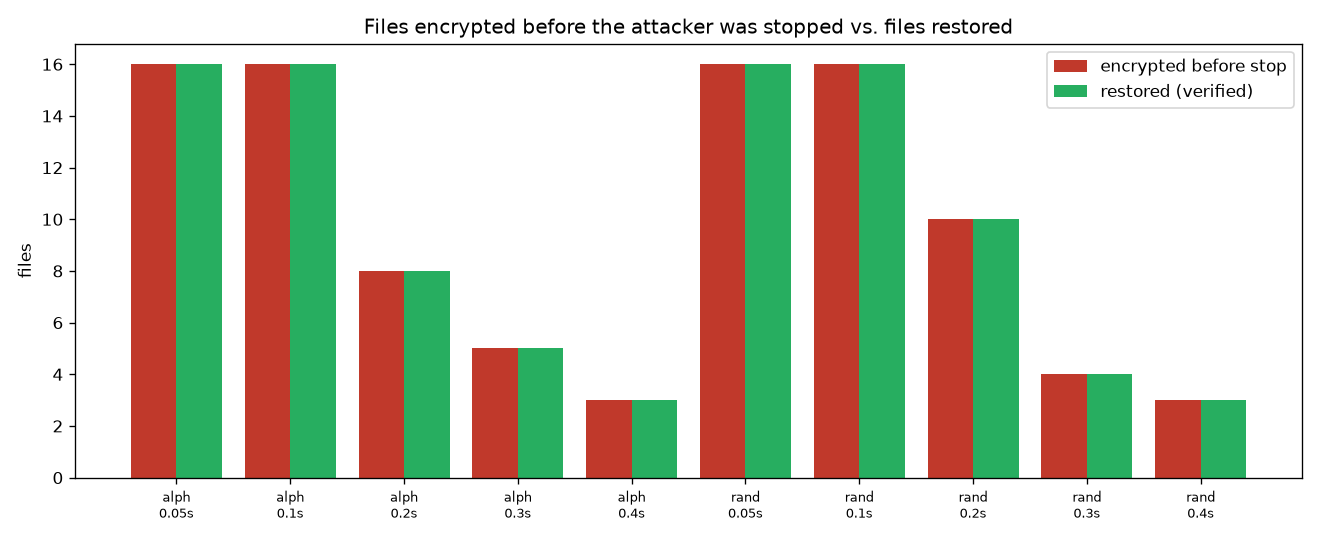
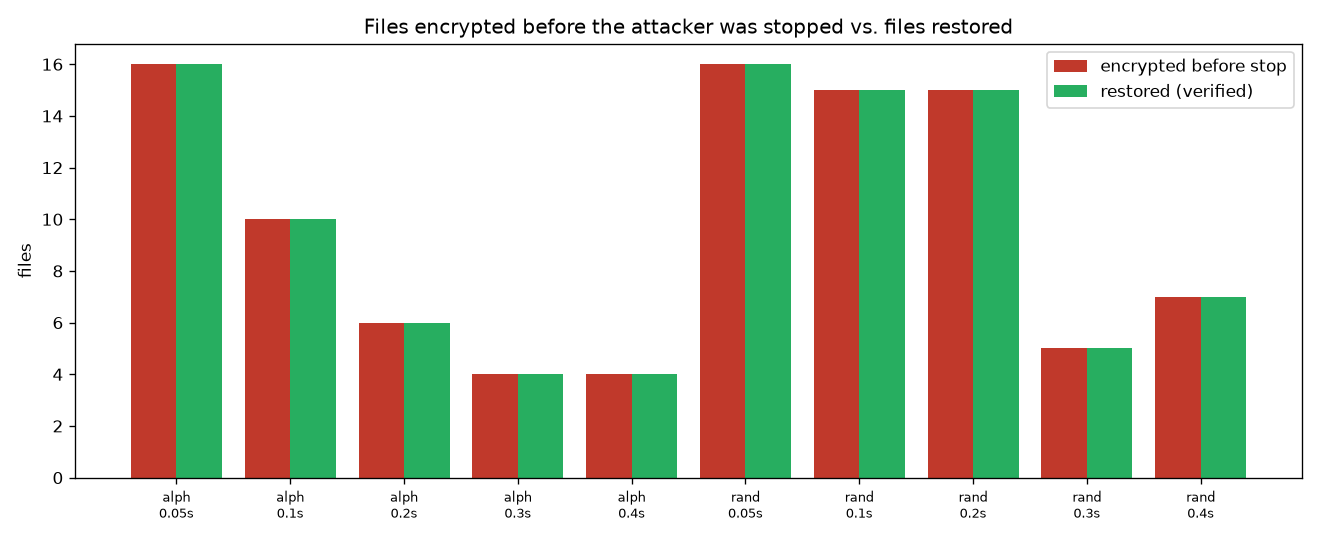
Part B finishing steps: isolate safety test, rename kill status, refresh results
- test_simulator_never_encrypts_recovery_keys now runs in a tmp sandbox and drives the
  simulator in-process (monkeypatched config paths), so it cannot collide with a concurrent
  evaluation run on the real ./sandbox
- attack_matrix: correct_kill value 'wrong_pid' -> 'wrong_pid_suspended'
- re-ran attack_matrix then run_experiment then report ALONE; refreshed results.md + charts
  (base64 & intermittent with canaries off are new catches; 10/10 cells folder-clean)
- README: added the honest caveat that on a MIXED corpus the old detector also catches
  these modes via the broken magic bytes (container header); the gap is measured on a
  text-only corpus, the hard case with no magic to break
- 86 tests pass

diff --git a/tests/test_advanced_attacks.py b/tests/test_advanced_attacks.py
@@ -16,18 +16,12 @@ from __future__ import annotations
 
 import base64
 import os
-import subprocess
-import sys
-from pathlib import Path
 
 import pytest
 
 from ransomguard import config, entropy
 from ransomguard.baseline import BaselineEntry
 from ransomguard.scorer import evaluate_signals
-
-PY = sys.executable
-ROOT = Path(__file__).resolve().parent.parent
 
 
 # ------------------------------------------------- encoded / base64 detection
@@ -87,29 +81,38 @@ def test_entropy_jump_fires_with_multi_offset_not_without(tmp_path, monkeypatch)
 
 # ------------------------------------------------- safety: keys never encrypted
 @pytest.mark.parametrize("mode", ["full", "slow", "no-rename", "base64", "intermittent"])
-def test_simulator_never_encrypts_recovery_keys(mode):
+def test_simulator_never_encrypts_recovery_keys(mode, tmp_path, monkeypatch):
     """No attack mode may touch backup_key.bin or the manifest - recovery must stay possible.
 
-    Runs against the real sandbox (safe: sandbox-only), building a backup first so the key
-    and manifest exist, then attacking and checking both are byte-identical afterwards.
+    Runs entirely in a throwaway tmp sandbox (config paths monkeypatched) and drives the
+    simulator IN-PROCESS, so it cannot collide with a concurrent evaluation run using the
+    real ./sandbox.
     """
-    subprocess.run([PY, "tools/make_test_files.py", "--clean"], cwd=ROOT,
-                   stdout=subprocess.DEVNULL, stderr=subprocess.DEVNULL, check=True)
-    # Create the protected key + manifest by building a backup.
-    subprocess.run(
-        [PY, "-c", "import sys; sys.path.insert(0,'.'); from ransomguard import backup; backup.build_backup()"],
-        cwd=ROOT, stdout=subprocess.DEVNULL, stderr=subprocess.DEVNULL, check=True,
-    )
+    from ransomguard import backup as backup_mod
+    from simulator import fake_ransomware
+
+    sb = tmp_path / "sandbox"
+    protected = sb / "protected"
+    protected.mkdir(parents=True)
+    monkeypatch.setattr(config, "SANDBOX", sb)
+    monkeypatch.setattr(config, "PROTECTED_DIR", protected)
+    monkeypatch.setattr(config, "BACKUP_DIR", sb / ".backup")
+    monkeypatch.setattr(config, "MANIFEST_FILE", sb / ".backup" / "manifest.json")
+    monkeypatch.setattr(config, "BACKUP_KEY_FILE", sb / "backup_key.bin")
+    monkeypatch.setattr(config, "SIM_KEY_FILE", sb / "sim_key.bin")
+    monkeypatch.setattr(config, "SIM_PID_FILE", sb / "sim_pid.txt")
+
+    # A small corpus (a text file and a structured file), then a backup so the key +
+    # manifest exist to be protected.
+    (protected / "notes.txt").write_text("hello world " * 400, encoding="utf-8")
+    (protected / "report.pdf").write_bytes(b"%PDF-1.4\n" + b"body " * 300)
+    backup_mod.build_backup(protected)
     key_before = config.BACKUP_KEY_FILE.read_bytes()
     manifest_before = config.MANIFEST_FILE.read_bytes()
 
-    subprocess.run(
-        [PY, "-m", "simulator.fake_ransomware", "--mode", mode, "--delay", "0", "--order", "asis"],
-        cwd=ROOT, stdout=subprocess.DEVNULL, stderr=subprocess.DEVNULL,
+    rc = fake_ransomware.main(
+        ["--path", str(protected), "--mode", mode, "--delay", "0", "--order", "asis"]
     )
-
+    assert rc == 0
     assert config.BACKUP_KEY_FILE.read_bytes() == key_before, f"{mode} touched the backup key!"
     assert config.MANIFEST_FILE.read_bytes() == manifest_before, f"{mode} touched the manifest!"
-    # tidy up
-    subprocess.run([PY, "-m", "simulator.undo"], cwd=ROOT,
-                   stdout=subprocess.DEVNULL, stderr=subprocess.DEVNULL)

diff --git a/evaluation/attack_matrix.py b/evaluation/attack_matrix.py
@@ -190,7 +190,7 @@ def _operational(mode: str, canaries_on: bool) -> dict:
     recoveries = [e for e in events if e["event"] == "recovery"]
     correct = "no_kill"
     if killed_pid is not None:
-        correct = "yes" if (sim_pid is not None and int(killed_pid) == sim_pid) else "wrong_pid"
+        correct = "yes" if (sim_pid is not None and int(killed_pid) == sim_pid) else "wrong_pid_suspended"
 
     dt = round(float(suspend_at) - sim_start, 3) if suspend_at is not None else None
     return {

diff --git a/evaluation/results/results.md b/evaluation/results/results.md
@@ -2,23 +2,23 @@
 
 | # | order | delay | files | detection (s) | attributed | killed | encrypted | final recovered | folder clean |
 |---|-------|-------|-------|---------------|------------|--------|-----------|-----------------|--------------|
-| 1 | alphabetical | 0.05s | 16 | - | yes | no | 16 | 16/16 | yes |
-| 2 | alphabetical | 0.1s | 16 | - | yes | no | 16 | 16/16 | yes |
-| 3 | alphabetical | 0.2s | 16 | 1.861 | yes | yes | 8 | 16/16 | yes |
-| 4 | alphabetical | 0.3s | 16 | 1.466 | yes | yes | 5 | 16/16 | yes |
-| 5 | alphabetical | 0.4s | 16 | 1.32 | yes | yes | 3 | 16/16 | yes |
-| 6 | random | 0.05s | 16 | 3.23 | yes | yes | 16 | 16/16 | yes |
-| 7 | random | 0.1s | 16 | - | no | no | 16 | 16/16 | yes |
-| 8 | random | 0.2s | 16 | 2.094 | yes | yes | 10 | 16/16 | yes |
-| 9 | random | 0.3s | 16 | 1.207 | yes | yes | 4 | 16/16 | yes |
-| 10 | random | 0.4s | 16 | 1.181 | yes | yes | 3 | 16/16 | yes |
+| 1 | alphabetical | 0.05s | 16 | - | no | no | 16 | 16/16 | yes |
+| 2 | alphabetical | 0.1s | 16 | 1.283 | yes | yes | 10 | 16/16 | yes |
+| 3 | alphabetical | 0.2s | 16 | 1.441 | yes | yes | 6 | 16/16 | yes |
+| 4 | alphabetical | 0.3s | 16 | 1.308 | yes | yes | 4 | 16/16 | yes |
+| 5 | alphabetical | 0.4s | 16 | 1.473 | yes | yes | 4 | 16/16 | yes |
+| 6 | random | 0.05s | 16 | - | no | no | 16 | 16/16 | yes |
+| 7 | random | 0.1s | 16 | 1.994 | yes | yes | 15 | 16/16 | yes |
+| 8 | random | 0.2s | 16 | 3.956 | yes | yes | 15 | 16/16 | yes |
+| 9 | random | 0.3s | 16 | 1.954 | yes | yes | 5 | 16/16 | yes |
+| 10 | random | 0.4s | 16 | 3.032 | yes | yes | 7 | 16/16 | yes |
 
 **Attack summary**
 
 - trials: 10
-- attributed + killed: 9/10
-- detection time: mean 1.77s, min 1.18s, max 3.23s
-- files encrypted before stop: mean 9.7, min 3, max 16
+- attributed + killed: 8/10
+- detection time: mean 2.06s, min 1.28s, max 3.96s
+- files encrypted before stop: mean 9.8, min 4, max 16
 - recovery rate (recovery self-report): mean 100.0%
 - **folder fully clean at end (ground truth): 10/10 trials**
 - leftover .locked artifacts across all trials: 0
@@ -38,16 +38,16 @@
 
 | mode | canaries | detected (new)? | would OLD detector catch? | detection (s) | encrypted | recovered | folder clean | clean pre-sweep | correct kill |
 |------|----------|-----------------|---------------------------|---------------|-----------|-----------|--------------|-----------------|--------------|
-| full | on | yes | yes | - | 10 | 10 | yes | yes | no_kill |
-| slow | on | yes | yes | 3.56 | 3 | 3 | yes | yes | yes |
-| no-rename | on | yes | yes | - | 10 | 10 | yes | no | no_kill |
-| base64 | on | yes | yes | - | 10 | 10 | yes | no | no_kill |
-| intermittent | on | yes | yes | - | 10 | 10 | yes | yes | no_kill |
+| full | on | yes | yes | 1.113 | 10 | 10 | yes | yes | yes |
+| slow | on | yes | yes | 1.794 | 2 | 2 | yes | yes | yes |
+| no-rename | on | yes | yes | 1.301 | 8 | 8 | yes | yes | yes |
+| base64 | on | yes | yes | 1.409 | 9 | 9 | yes | yes | yes |
+| intermittent | on | yes | yes | 0.993 | 6 | 6 | yes | yes | yes |
 | full | off | yes | yes | - | 6 | 6 | yes | no | no_kill |
-| slow | off | yes | yes | 2.551 | 3 | 3 | yes | yes | yes |
+| slow | off | yes | yes | 1.748 | 2 | 2 | yes | yes | yes |
 | no-rename | off | yes | yes | - | 6 | 6 | yes | no | no_kill |
 | base64 | off | yes | **NO (new catch)** | - | 6 | 6 | yes | no | no_kill |
-| intermittent | off | yes | **NO (new catch)** | - | 6 | 6 | yes | yes | no_kill |
+| intermittent | off | yes | **NO (new catch)** | - | 6 | 6 | yes | no | no_kill |
 
 **Before/after:** 2 of 10 attack cells are caught by the new detector but would have slipped past the original entropy/magic/canary detector
 - base64 (canaries off)

diff --git a/README.md b/README.md
@@ -322,6 +322,15 @@ on every mode is caught. Recovery restored the folder to a byte-for-byte clean s
 10 matrix cells (ground truth), and `clean pre-sweep` shows several cells needed the final
 stop() recovery sweep to get there.
 
+> **Honest caveat.** This before/after gap is measured on a **text-only** corpus on
+> purpose. Every encrypted file begins with the simulator's container header (`RGSIM1`),
+> which destroys the original magic bytes - so on a **mixed** corpus the OLD detector would
+> already catch `base64` and `intermittent` too, via the magic-byte signal on the
+> structured files (pdf/jpg/docx/…). Text files have no magic bytes to break, so they are
+> the hard case that isolates the new entropy/encoded signals. In other words, the upgrades
+> matter most for plaintext-heavy data; for structured files the existing magic-byte signal
+> was already doing the job.
+
 ## Cryptographic protection of the backup, manifest and log
 
 The backup and the evidence are themselves hardened, so an attacker who reaches them cannot
